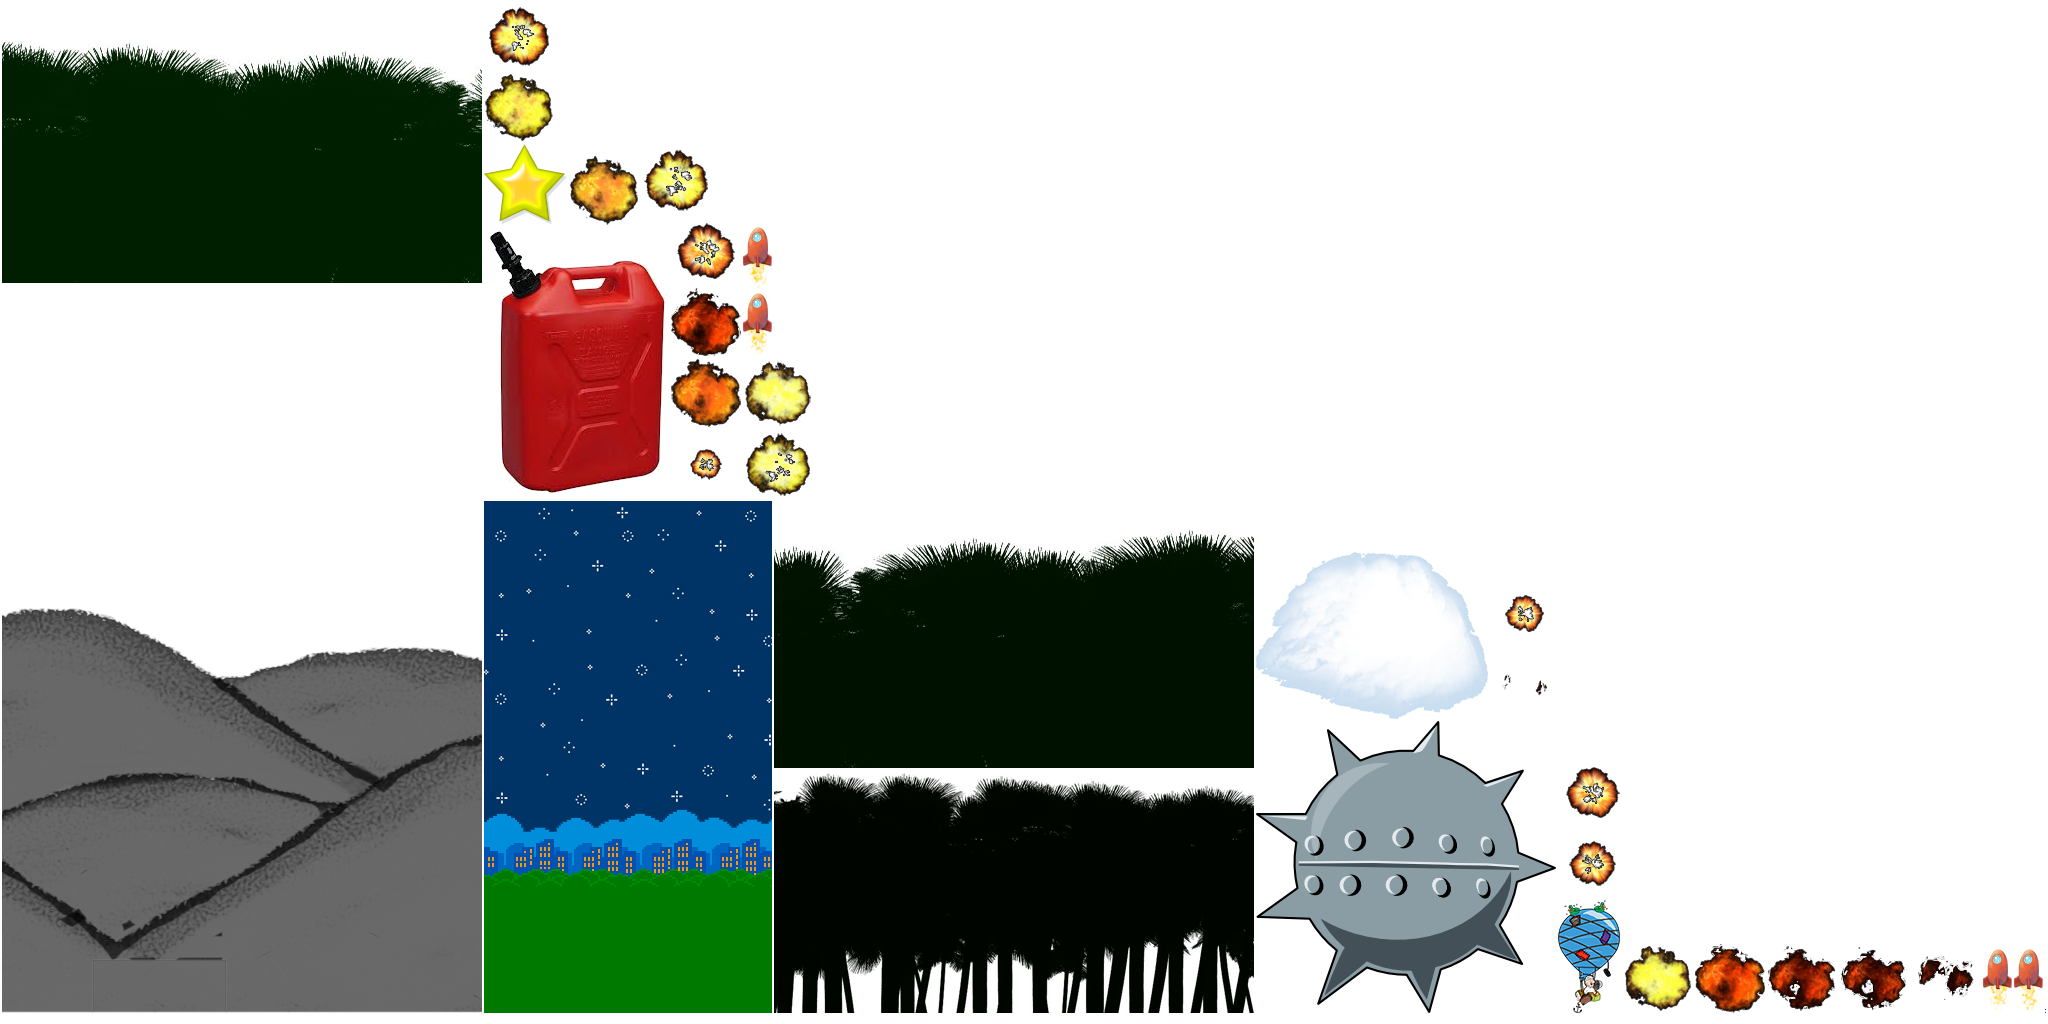
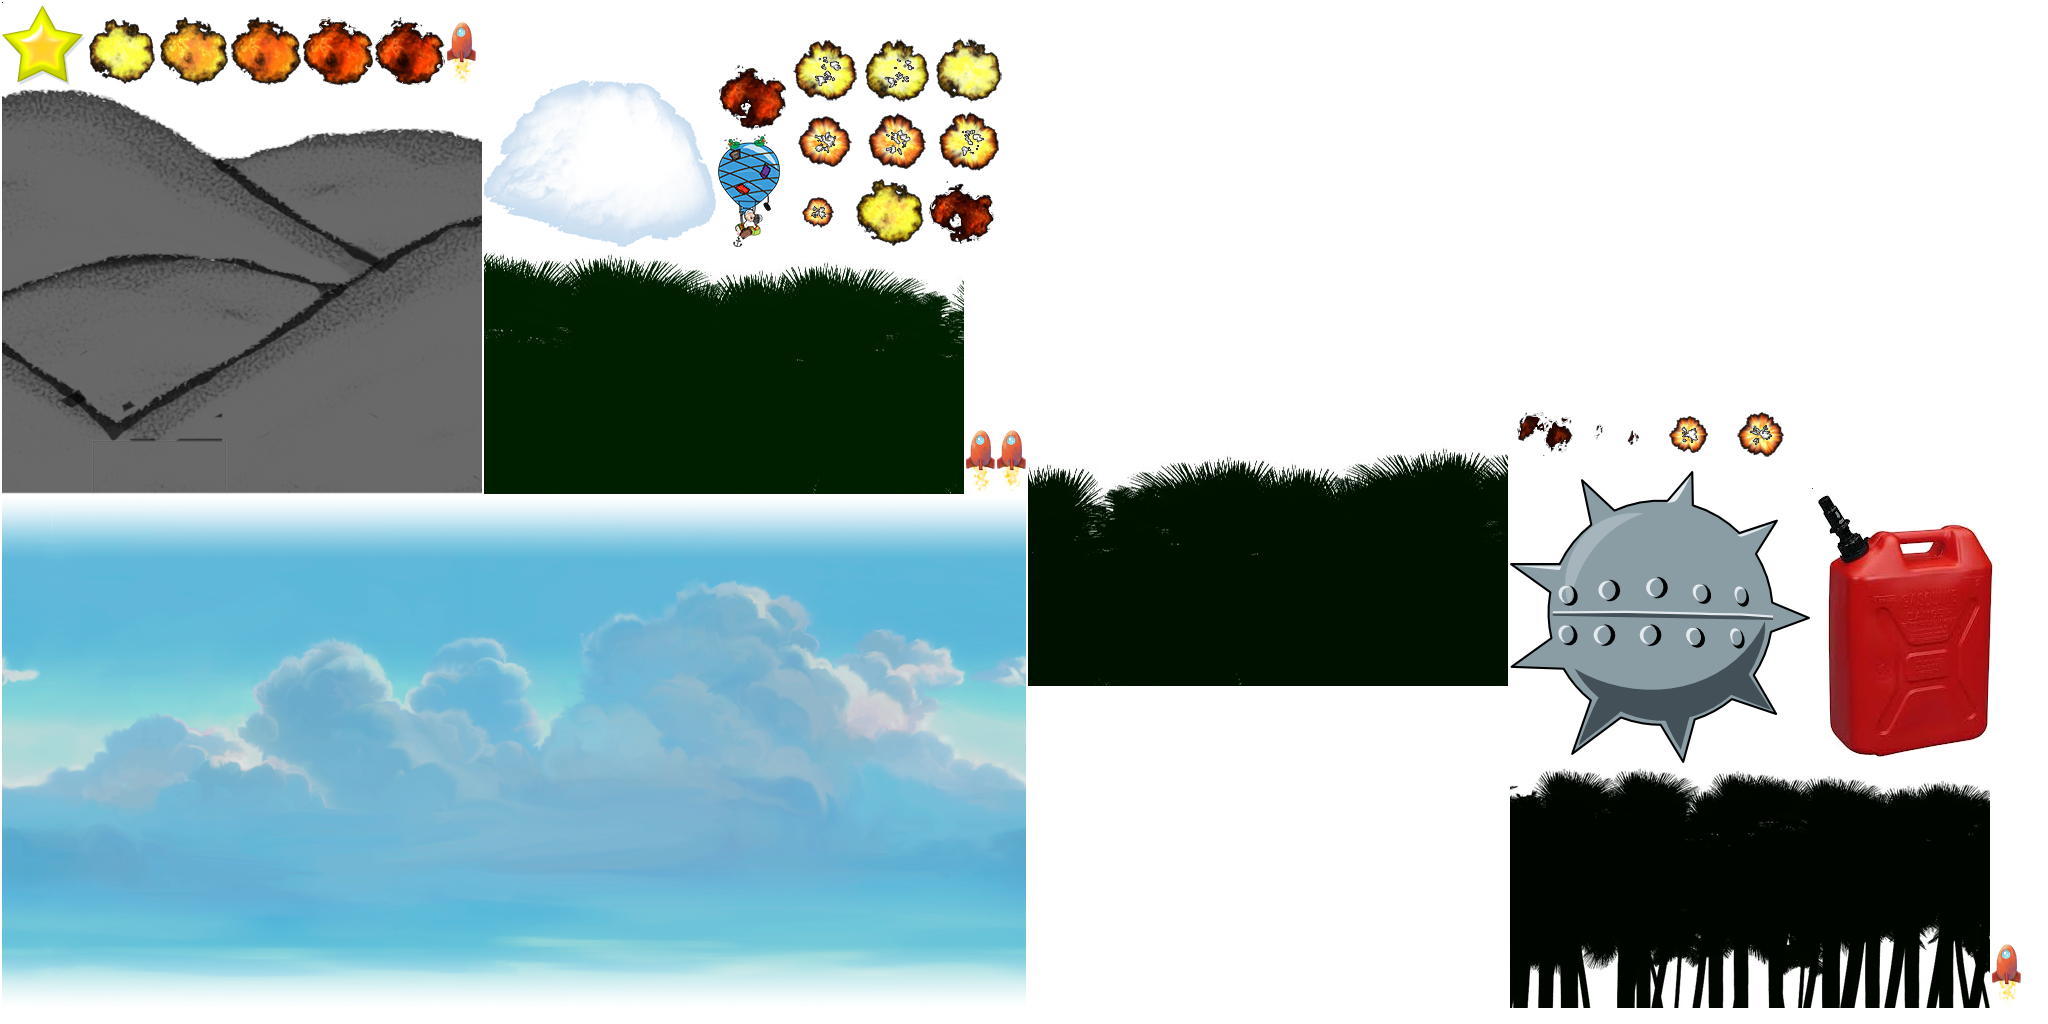
Updates beta

diff --git a/lander/src/com/tiarsoft/lander/Assets.java b/lander/src/com/tiarsoft/lander/Assets.java
@@ -10,6 +10,7 @@ import com.badlogic.gdx.graphics.g2d.TextureAtlas.AtlasRegion;
 import com.badlogic.gdx.maps.tiled.AtlasTmxMapLoader;
 import com.badlogic.gdx.maps.tiled.TiledMap;
 import com.badlogic.gdx.maps.tiled.TmxMapLoader;
+import com.badlogic.gdx.utils.Array;
 import com.esotericsoftware.spine.Skeleton;
 import com.esotericsoftware.spine.SkeletonData;
 import com.esotericsoftware.spine.SkeletonJson;
@@ -27,7 +28,7 @@ public class Assets {
 	public static AtlasRegion bomba;
 
 	public static BitmapFont font;
-	public static String[] mundos;
+	public static Array<String> mundos;
 
 	public static TiledMap map;
 
@@ -48,7 +49,7 @@ public class Assets {
 		AtlasRegion an4 = atlas.findRegion("globo");
 		nave = new Animation(.15f, an1, an2, an3, an4);
 
-		fondo = atlas.findRegion("fondo3");
+		fondo = atlas.findRegion("fondo");
 
 		AtlasRegion newExpl1 = atlas.findRegion("newExplosion1");
 		AtlasRegion newExpl2 = atlas.findRegion("newExplosion2");
@@ -77,16 +78,23 @@ public class Assets {
 
 		font = new BitmapFont();
 
-		if (Gdx.app.getType() == ApplicationType.Desktop) {
-			mundos = new String[] { "data/mundos/mundo01.tmx", "data/mundos/mundo02.tmx", "data/mundos/mundo03.tmx", "data/mundos/mundo04.tmx", "data/mundos/mundo05.tmx", "data/mundos/mundo06.tmx" };
+		if (Gdx.app.getType() == ApplicationType.Desktop && isDebug == false) {
+			mundos = new Array<String>();
+			mundos.add("data/mundos/mundo01.tmx");
+			mundos.add("data/mundos/mundo02.tmx");
+			mundos.add("data/mundos/mundo03.tmx");
+			mundos.add("data/mundos/mundo04.tmx");
 		}
 		else {
+			String ruta = "data/mundos";
+			if (Gdx.app.getType() == ApplicationType.Desktop)
+				ruta = "./bin/data/mundos";
+			FileHandle[] files = Gdx.files.internal(ruta).list();
+			mundos = new Array<String>();
 
-			FileHandle[] files = Gdx.files.internal("data/mundos").list();
-			mundos = new String[files.length - 1];
-
-			for (int i = 0; i < files.length - 1; i++) {
-				mundos[i] = files[i + 1].path();
+			for (int i = 0; i < files.length; i++) {
+				if (files[i].path().contains(".tmx"))
+					mundos.add(files[i].path());
 			}
 		}
 
@@ -104,9 +112,9 @@ public class Assets {
 			map = null;
 		}
 		if (isDebug)
-			map = new TmxMapLoader().load(mundos[numeroMundo - 1]);
+			map = new TmxMapLoader().load(mundos.get(numeroMundo - 1));
 		else
 			// map=new AtlasTmxMapLoader().load(mundos[numeroMundo - 1]);
-			map = new TmxMapLoader().load(mundos[numeroMundo - 1]);
+			map = new TmxMapLoader().load(mundos.get(numeroMundo - 1));
 	}
 }

diff --git a/lander/src/com/tiarsoft/lander/game/WorldGameRenderer.java b/lander/src/com/tiarsoft/lander/game/WorldGameRenderer.java
@@ -76,7 +76,7 @@ public class WorldGameRenderer {
 
 		batcher.disableBlending();
 		batcher.begin();
-		batcher.draw(Assets.fondo, oCam.position.x - WIDTH / 2f, oCam.position.y - HEIGHT / 2f, WIDTH, HEIGHT);
+		batcher.draw(Assets.fondo, 0, oCam.position.y - HEIGHT / 2f, 10.24f, HEIGHT);
 		// renderFondo(delta);
 		batcher.end();
 
@@ -92,7 +92,7 @@ public class WorldGameRenderer {
 		batcher.end();
 
 		if (Assets.isDebug) {
-			renderBox.render(oWorld.oWorldBox, oCam.combined);
+			// renderBox.render(oWorld.oWorldBox, oCam.combined);
 		}
 	}
 

diff --git a/lander/src/com/tiarsoft/lander/game/GameScreen.java b/lander/src/com/tiarsoft/lander/game/GameScreen.java
@@ -56,7 +56,7 @@ public class GameScreen extends Screens {
 
 			if (oWorld.state == WorldGame.STATE_NEXT_LEVEL)
 				mundo++;
-			if (mundo > Assets.mundos.length)
+			if (mundo > Assets.mundos.size)
 				mundo = 1;
 			game.setScreen(new GameScreen(game, mundo));
 
